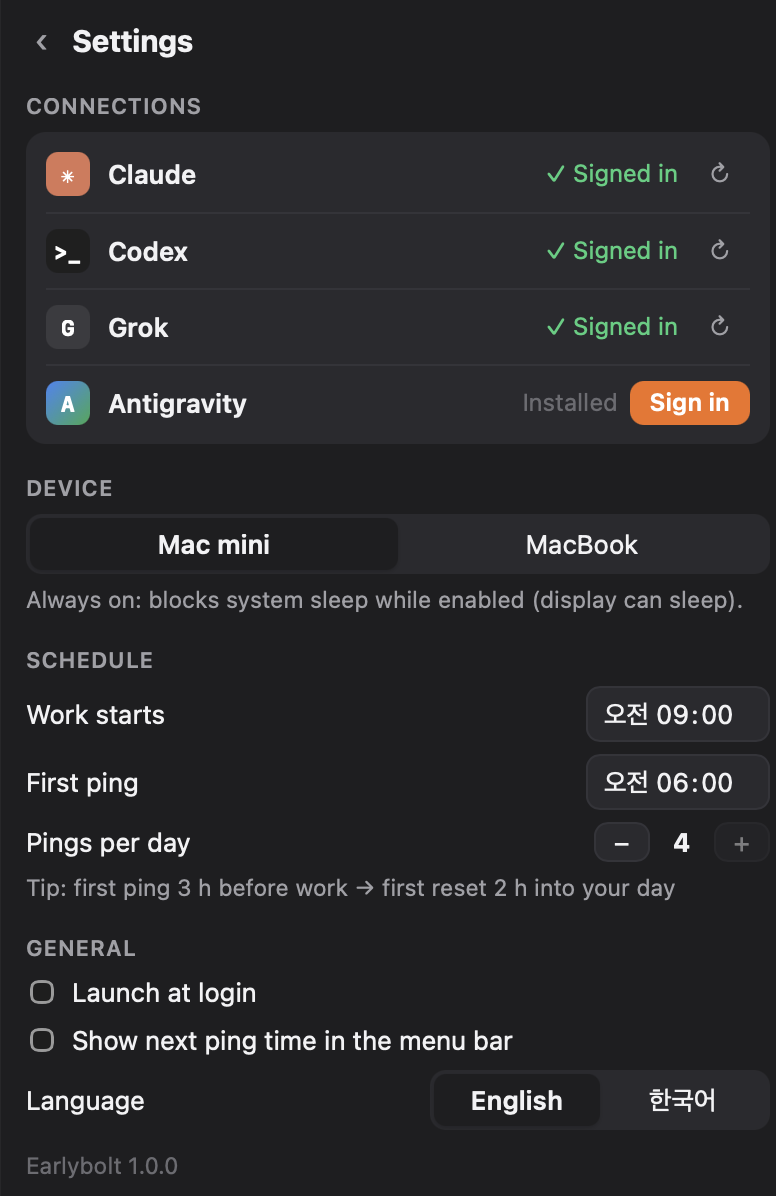
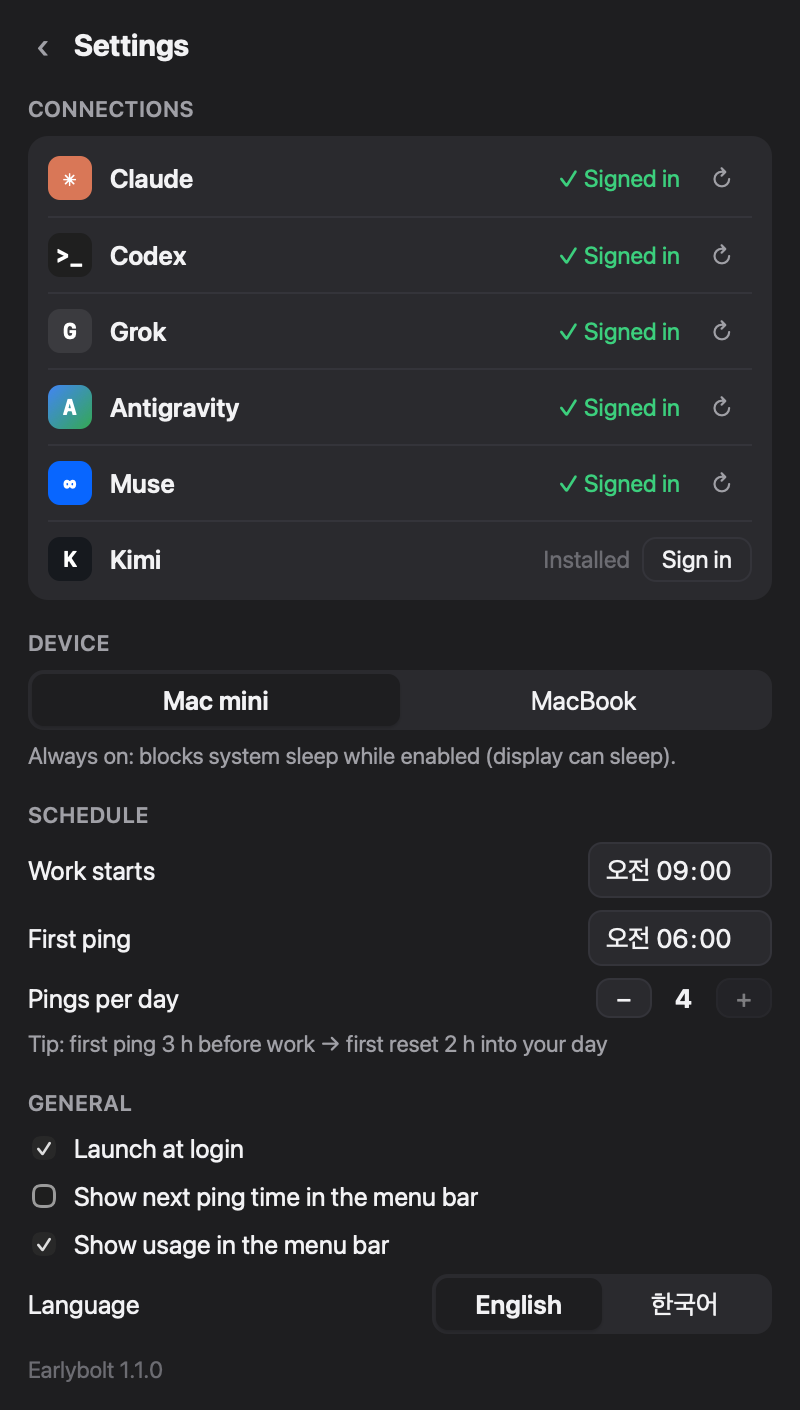
README: new screenshots with the usage panel and Muse/Kimi
Also shorten the English window labels ("week" instead of "weekly")
so "Gemini week" fits in a usage cell.

diff --git a/src/i18n.js b/src/i18n.js
@@ -54,7 +54,7 @@ window.I18N = {
     trayUsage: "Show usage in the menu bar",
     usage: "Usage",
     refresh: "Refresh",
-    kind: { "5h": "5h", week: "weekly", month: "monthly" },
+    kind: { "5h": "5h", week: "week", month: "month" },
     dh: (d, h) => `${d}d ${h}h`,
     hm: (h, m) => `${h}h ${m}m`,
     m: (m) => `${m}m`,
